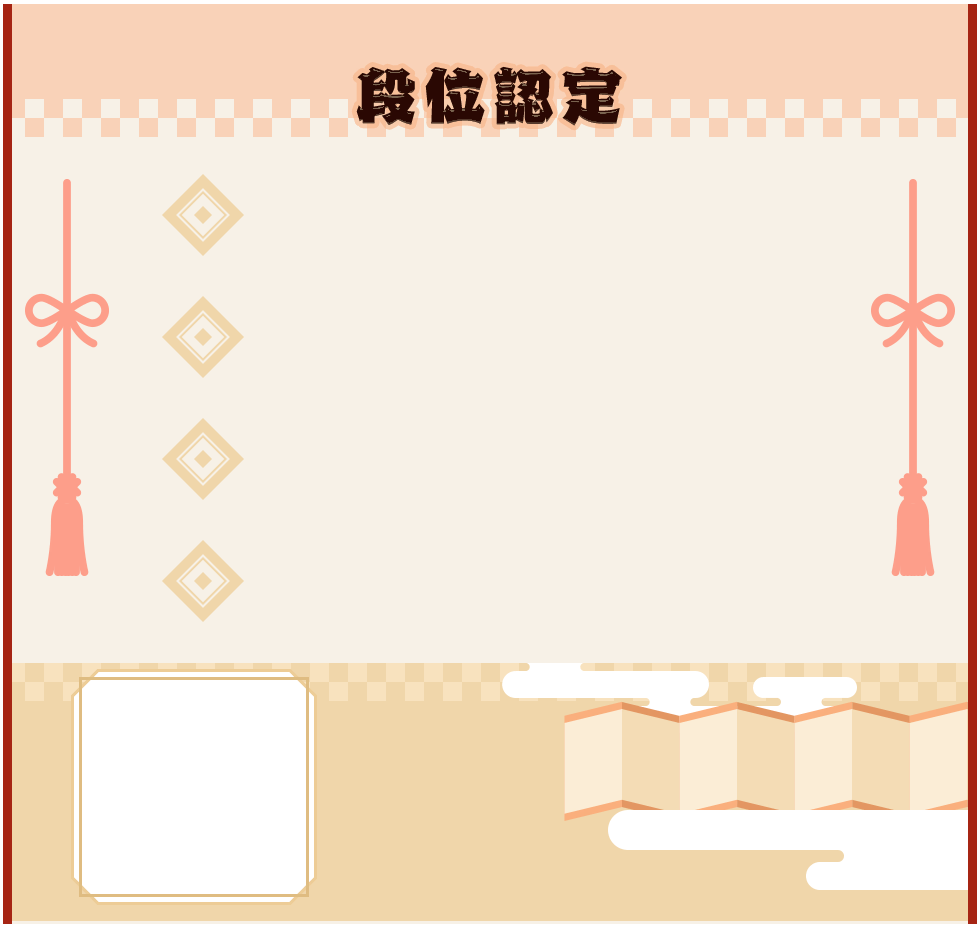
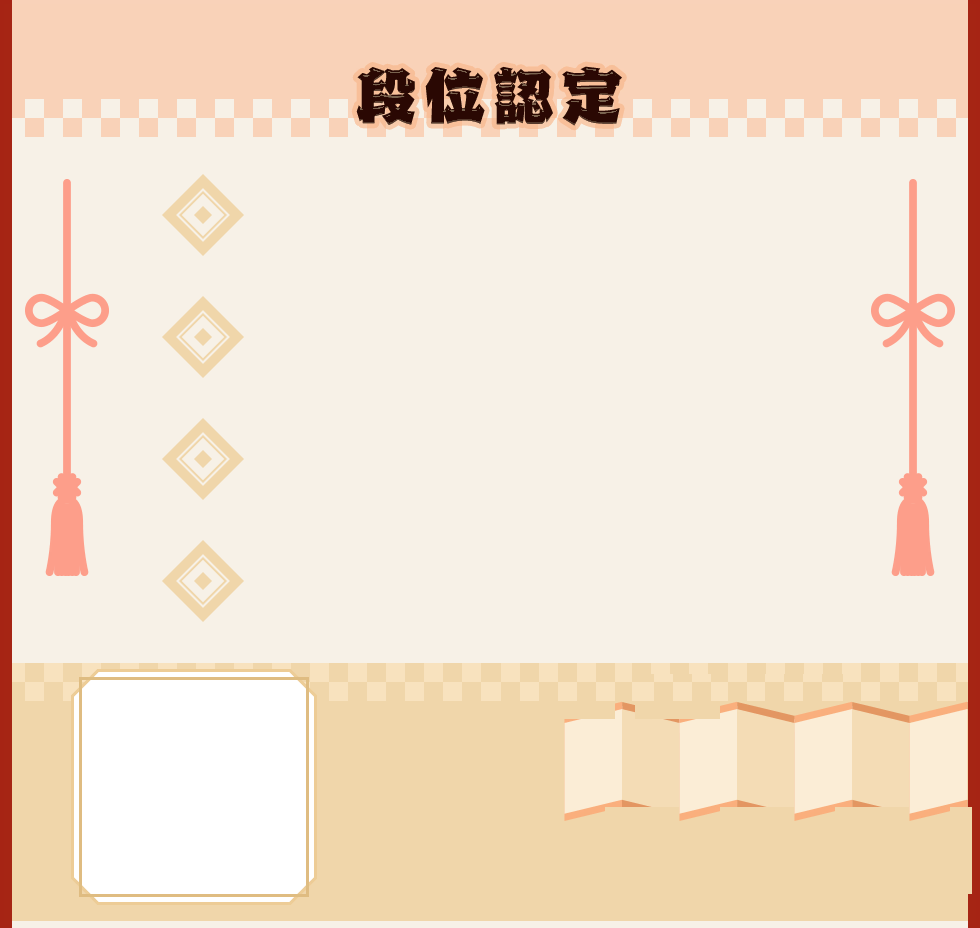
fix: fill the punched-out slots in the dan result base art
底图下半部那条色带里有三块**挖白的空面板**（(503,663) 213×52、(753,677) 104×38、
(608,810) 360×80）—— 那是原作留给运行时贴图的位置，运行时被盖住，所以底图上留白。
我们不需要显示那么多信息，白块露出来只会看着像「空框」，上一版还被迫把
でらっくスコア 那张标签往白块的形状里塞。

新增 scripts/patch-maimai-result-band.py，按底图自己的花纹把这三块续画填掉：

- 色带是平涂竖向色块 + 斜向橙色折线，水平方向**严格周期**：干净区自比，p=115 时
  平均差只有 2.8（再往上都是倍频），所以整块矩形都能从 x±k·115 的同相位列搬过来，
  折线与色块接缝都对得上；
- 不按阈值抠白像素：挖白边缘有一圈跟底色混出来的半透明浅灰，抠出来总会漏一圈
  光晕；按连通域量出矩形（外扩 3px）整块替换更干净；
- 取色列避开画布左右边框（深红）与左下角那块段位名牌 —— 那一格留着盖合格印；
- 已补过的图认得出（矩形里没有近白像素就跳过），所以重复跑不会沿着折线累积漂移。

底图两个变体（result-dani / result-random）都补了，页面版式不用再迁就白块。
314 个单测 / 三个 E2E / 像素探针全绿。

diff --git a/scripts/patch-maimai-result-band.py b/scripts/patch-maimai-result-band.py
@@ -1,0 +1,107 @@
+#!/usr/bin/env python3
+"""把段位認定结算底图下半部那几块「挖白」的面板按底图花纹续画填掉。
+
+这是**开发工具**，同 extract-maimai-assets.py：仓库里 public/assets/maimai/result-dani.png
+与 result-random.png 已经是补过的。只有重新提取底图（会把挖白带回来）之后才需要再跑一遍：
+
+    python scripts/extract-maimai-assets.py "<游戏目录>"
+    python scripts/patch-maimai-result-band.py
+
+为什么要补：底图下半部那条色带里有三块**挖白的空面板**（(503,663) 213×52、
+(753,677) 104×38、(608,810) 360×80）—— 那是原作留给运行时贴图的位置（标签、按钮一类），
+运行时它们会被盖住，所以底图上就留了白。我们不需要显示那么多信息，白块露出来只会看着
+像「空框」，所以按底图自己的花纹把这几块填回去。
+
+怎么补：色带是平涂的竖向色块 + 斜向橙色折线（chevron），水平方向**严格周期**——
+把干净区跟自身平移 p 列比差，p=115 时平均差只有 2.8（再往上都是倍频），所以整块矩形
+都能从 x±k·115 的同相位列搬过来，折线与色块接缝都能对上。
+
+不用「按阈值抠白像素」那套：挖白边缘有一圈半透明的浅灰（跟底色混出来的），按阈值抠
+总会漏一圈光晕；直接按连通域量出来的矩形（外扩 3px）整块替换更干净。取色列避开画布
+左右边框（会有深红边框）与左下角那块段位名牌 —— 那一格保留，页面拿它盖合格印。
+"""
+from __future__ import annotations
+
+import sys
+from pathlib import Path
+
+import numpy as np
+from PIL import Image
+
+# 三块挖白面板：连通域量出来的外框
+HOLES = (
+    (503, 663, 716, 715),      # 色带上沿左边那块
+    (753, 677, 857, 715),      # 色带上沿右边那块
+    (608, 810, 968, 890),      # 右下角那一大块
+)
+PAD = 3                        # 外扩，吃掉边缘那圈半透明浅灰
+PLATE = (74, 672, 315, 903)    # 左下角段位名牌：保留
+XMIN, XMAX = 12, 950           # 取色列的安全范围
+BAND_TOP, BAND_BOTTOM = 662, 901   # 量周期用的干净区
+FILES = ("result-dani.png", "result-random.png")
+
+
+def period(strip: np.ndarray) -> int:
+    """干净区自比，取平均差最小的平移量。"""
+    clean = np.ones(strip.shape[:2], bool)
+    clean[:, :330] = False
+    clean[:, 951:] = False
+    for x0, y0, x1, y1 in HOLES:
+        clean[max(0, y0 - BAND_TOP - 6):y1 - BAND_TOP + 7, max(0, x0 - 6):x1 + 7] = False
+    best, best_value = 0, float("inf")
+    for p in range(60, 180):
+        mask = clean[:, :-p] & clean[:, p:]
+        if mask.sum() < 2000:
+            continue
+        diff = np.abs(strip[:, :-p] - strip[:, p:]).mean(axis=2)
+        value = float(diff[mask].mean())
+        if value < best_value - 1e-9:
+            best, best_value = p, value
+    return best
+
+
+def patch(path: Path) -> None:
+    art = np.asarray(Image.open(path).convert("RGB")).astype(np.int16)
+    height, width = art.shape[:2]
+    hole = np.zeros((height, width), bool)
+    for x0, y0, x1, y1 in HOLES:
+        hole[max(0, y0 - PAD):y1 + PAD + 1, max(0, x0 - PAD):x1 + PAD + 1] = True
+    hole[PLATE[1]:PLATE[3], PLATE[0]:PLATE[2]] = False
+
+    # 已经补过的图不要再补：填色是从原图取的，第二次跑会拿上一次填出来的像素当源，
+    # 沿着折线边缘累积出一两像素的漂移。
+    white = (art >= 246).all(axis=2) & hole
+    if white.sum() < hole.sum() * 0.02:
+        print("  %-20s 没有挖白了（已补过），跳过" % path.name)
+        return
+
+    p = period(art[BAND_TOP:BAND_BOTTOM])
+    filled = art.copy()
+    for y, x in zip(*np.nonzero(hole)):
+        for k in (1, 2, 3, 4):
+            hit = False
+            for cand in (x - k * p, x + k * p):
+                in_plate = PLATE[0] <= cand < PLATE[2] and PLATE[1] <= y < PLATE[3]
+                if XMIN <= cand <= XMAX and not hole[y, cand] and not in_plate:
+                    filled[y, x] = art[y, cand]
+                    hit = True
+                    break
+            if hit:
+                break
+    Image.fromarray(filled.astype(np.uint8)).save(path)
+    print("  %-20s 周期 %d，补了 %d 像素" % (path.name, p, int(hole.sum())))
+
+
+def main() -> int:
+    out = Path(sys.argv[1]) if len(sys.argv) > 1 else Path("public/assets/maimai")
+    for name in FILES:
+        target = out / name
+        if not target.exists():
+            print("  少了 %s，跳过" % target, file=sys.stderr)
+            continue
+        patch(target)
+    return 0
+
+
+if __name__ == "__main__":
+    raise SystemExit(main())

diff --git a/docs/dan.md b/docs/dan.md
@@ -161,10 +161,11 @@ active ──四道全部通关──→ cleared（通过）
 <a href="images/dan-settlement.jpg"><img src="images/dan-settlement.jpg" alt="段位認定结算页，虚拟演示数据" width="620"></a>
 
 - **底图**：整屏就是原作那张 980×928 的成品图 —— `UI_DNM_Result_Base_01`（「段位認定」）与 `UI_DNM_Result_Base_03`（「ランダム段位認定」）。页头文字、格纹页眉、两侧水引（蝴蝶结 + 竖绳 + 流苏）、下半部色带与左下角那格白框**全部烘焙在底图里**，所以档位挑战与随机段位各用自己那一版，标题不再由页面画。
+- **底图补过一处**：下半部色带里有三块**挖白的空面板**（`(503,663) 213×52`、`(753,677) 104×38`、`(608,810) 360×80`）—— 那是原作留给运行时贴图的位置（标签、按钮一类），运行时会被盖住，所以底图上就留了白。我们不需要显示那么多信息，白块露出来只会像「空框」，所以 `scripts/patch-maimai-result-band.py` 按底图自己的花纹把这几块续画填掉了：色带是平涂竖向色块 + 斜向橙色折线，水平方向**严格周期**（干净区自比，`p=115` 时平均差只有 2.8，再往上都是倍频），整块矩形都能从 `x±k·115` 的同相位列搬过来，折线接缝对得上。左下角那格段位名牌**保留** —— 那一格我们拿来盖合格印。重新提取底图（`extract-maimai-assets.py`）会把挖白带回来，补跑一次这个脚本即可（已补过的图它认得出，会跳过）。
 - **组件按官方坐标拼**：底图之上每一件都放在原作预制体（`Process/Course/CourseResultProcess`、逐题行的 `UI_CMN_KOP_TrackData`）量出来的位置上，尺寸也照官方：逐题行 `x 267–843`、第 1 行 `y 152`、行距 `122`（576 宽 = 官方 640 × 0.9）；行首的印是 `108×108`（官方原始尺寸，不是缩过的）；达成率数字字高 `41`；曲绘槽 `104×72`（官方 `JacketImage_S` 113×113 × 0.9 的位置）。这些数字写在 `public/dan.css` 顶部注释里，`dan-settlement-check` 里有一条断言直接量它们（`行内组件互不重叠、也不伸出边框`），底部白框、白缎带的位置也是拿底图逐行数像素量出来的。
 - **逐题卡**：每道一张。左侧一枚原作印（`UI_DNM_Icon_Result_01` 可 / `_02` 不可，未抽到的变灰）；右侧横卡用原作底板 `UI_DNM_Result_musicBase_01` 撑起来，上面再压一层**乐曲边框** —— 版式照官方 `UI_CMN_RSL_KopMBase_*`（640×140）逐像素量出来画：外圈浅色环 + 主色场 + 底部浅色带 + 左侧曲绘槽 + 深蓝标题条（带官方那圈白边）+ 白色达成率框 + 深蓝行首小牌（官方 `JaketTrack`）。**颜色不烘死**：官方那五张（BSC/ADV/EXP/MST/MST_Re）把难度色和难度名都印在图里，套不上我们自己的 CF 分档，所以边框按 `--tc1/--tc2` 上色（`cfRatingColor(...).tone` → `TRACK_TONE`）。
 - **信息分配改了官方的排法**：官方右边一列挤了四件（评级 / 难度分 / 限时 / DX分数），四道并排看下来就是一堵字墙。现在左边是「跟题目走的东西」—— 曲绘槽换成**按档位色上色**的题号牌（官方那格是白底，纯白在满屏深色里就是一块洞），下面挂一块白牌写这道题的单题 rating（`DX分数`）；难度名牌那一格写「档位 rating + CF 区间」（官方烘的是 `MASTER` 这类难度名）；右边只留评级徽章与这道题的限时白牌。达成率大数字 + 官方彩色「%」字形 + 官方评级徽章（`UI_CMN_TabTitle_Rank_*`）仍在中间。
-- **底部色带**：左下白框那一格原作放段位名牌，我们不显示段位名，改成把合格印**盖在白框里面**（之前印比框还大，两边各糊出去 30px）并在印下面写通关题数；中间是原作的剩余生命底盘（`UI_DNM_Base_Life_01` 绿 / `_03` 红）里面写「通关几道」；右边两块**右对齐到同一条边**（`x 945`）：上面是「总达成率」+ 官方数字图集拼的大数字，下面是官方「でらっくスコア」标签（`UI_RSL_DXScore_Base`）—— **那张标签本身就是个框**：226×54 里 `y 0–25` 是蓝底白字，`y 26–50` 留了一块 `218×25` 的白，那块白就是给分数用的，所以 `DX分数` 的数字写在框里（`padding-right: 8px` 右对齐），不是排在框右边。整张框按原尺寸放，落在底图那条白缎带上（缎带实测 `y 812–852 / x 609–968`）—— 官方本来就拿缎带那一带当分数面板，浮在旁边会剩一块看着像空框的白。
+- **底部色带**：左下白框那一格原作放段位名牌，我们不显示段位名，改成把合格印**盖在白框里面**（之前印比框还大，两边各糊出去 30px）并在印下面写通关题数；中间是原作的剩余生命底盘（`UI_DNM_Base_Life_01` 绿 / `_03` 红）里面写「通关几道」；右边两块**右对齐到同一条边**（`x 945`）：上面是「总达成率」+ 官方数字图集拼的大数字，下面是官方「でらっくスコア」标签（`UI_RSL_DXScore_Base`）—— **那张标签本身就是个框**：226×54 里 `y 0–25` 是蓝底白字，`y 26–50` 留了一块 `218×25` 的白，那块白就是给分数用的，所以 `DX分数` 的数字写在框里（`padding-right: 8px` 右对齐），不是排在框右边。整张框按原尺寸放在补干净的色带上（`(719,805) 226×54`）。
 - 数字不是 CSS 字体画的：**官方数字图集逐格切**。图集是规整 4×4 网格，格子由同名 Sprite 定 rect；白字族每格拆成「官方 `_Outline` 剪影当遮罩上深色（描边）+ 官方填充图集」两层 —— 图集本身是**纯白剪影**（游戏运行时才染色），background 层没法单独染色，所以用两个真元素叠。这套「剪影 + 运行时染色」的能力也直接用在了 DX 分数上（染成帧上的深蓝 `#0d2a63`，见下）。对照表（一张张看出来的）：白字族 `[0-9]` `[10]'+'` `[11]'-'` `[12]','` `[13]'·'`（居中的圆点，就是这套字体的小数点）`[14]'%'`；分数族 `[10]'+'` `[11]'/'` `[12]'%'` `[13]'.'`。
 - **达成率按分数换色**：官方那套 `UI_NUM_Score_0001111_{Blue,Gold,Red}` 是同布局的三色分数图集（自带颜色、不叠描边），末尾的大「%」字形 `UI_RSL_Score_Per_{Blue,Gold,Red}` 同样三色 —— 所以达成率的档位就是三档：`≥100%` 金（SSS/SSS+）、`≥97%` 蓝（S～SS+）、再低红。`scoreTone()` 在 `public/dan.js` 里，换色在同一条 `achievementNumber()` 里做。**官方那张 `UI_NUM_Score_0001111_Base` 是一张空图集**（16 格里一个字形都没有，整张只有几列杂散像素），照它渲染出来就是一片看不见的灰影，别用。
 - **DX 分数不上分数色**：那一格显示的是单题 rating、不是 DX 分数比率，所以三色专门留给达成率；它用白字族剪影染深蓝（跟标题条、标签同一个深蓝）。**所有「没有成绩」的占位「—」也走这套染色**：白字族是纯白剪影，直接铺在白色达成率框或浅色底图上等于看不见。
